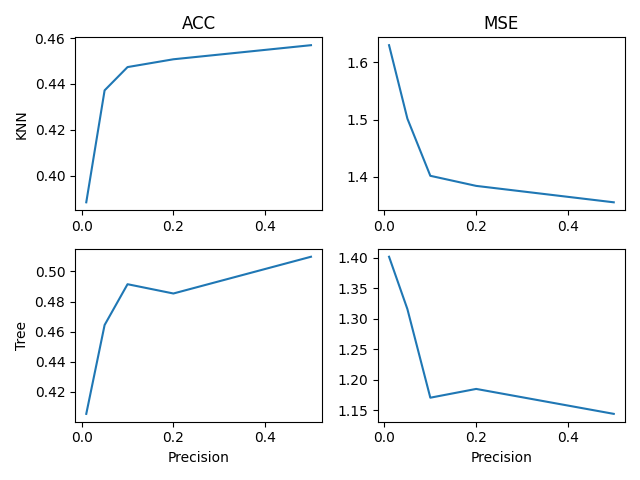
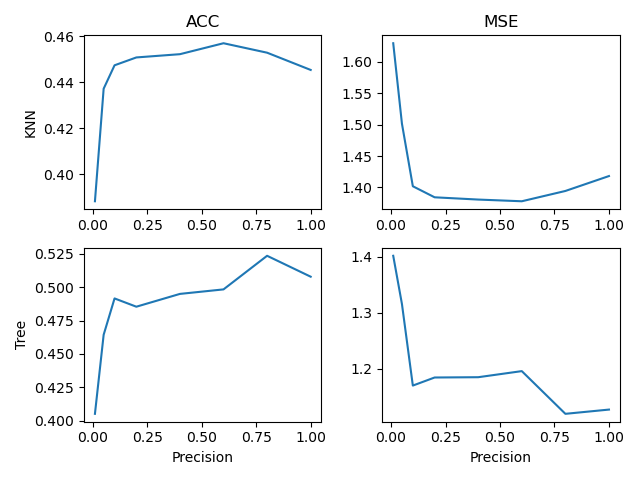
Added more precisions, [0.01, 0.05, 0.1, 0.2, 0.4, 0.6, 0.8, 1.0] # 17

diff --git a/Instance Selection Algorithms/plot_csv_percent.py b/Instance Selection Algorithms/plot_csv_percent.py
@@ -67,7 +67,7 @@ if __name__ == '__main__':
     args = parser.parse_args()
 
     dataset = 'page-blocks' if args.d is None else str(args.d[0])
-    #test_unlabeled(dataset)
-    plot_self_tarining(dataset)
+    test_unlabeled(dataset)
+    #plot_self_tarining(dataset)
 
 
